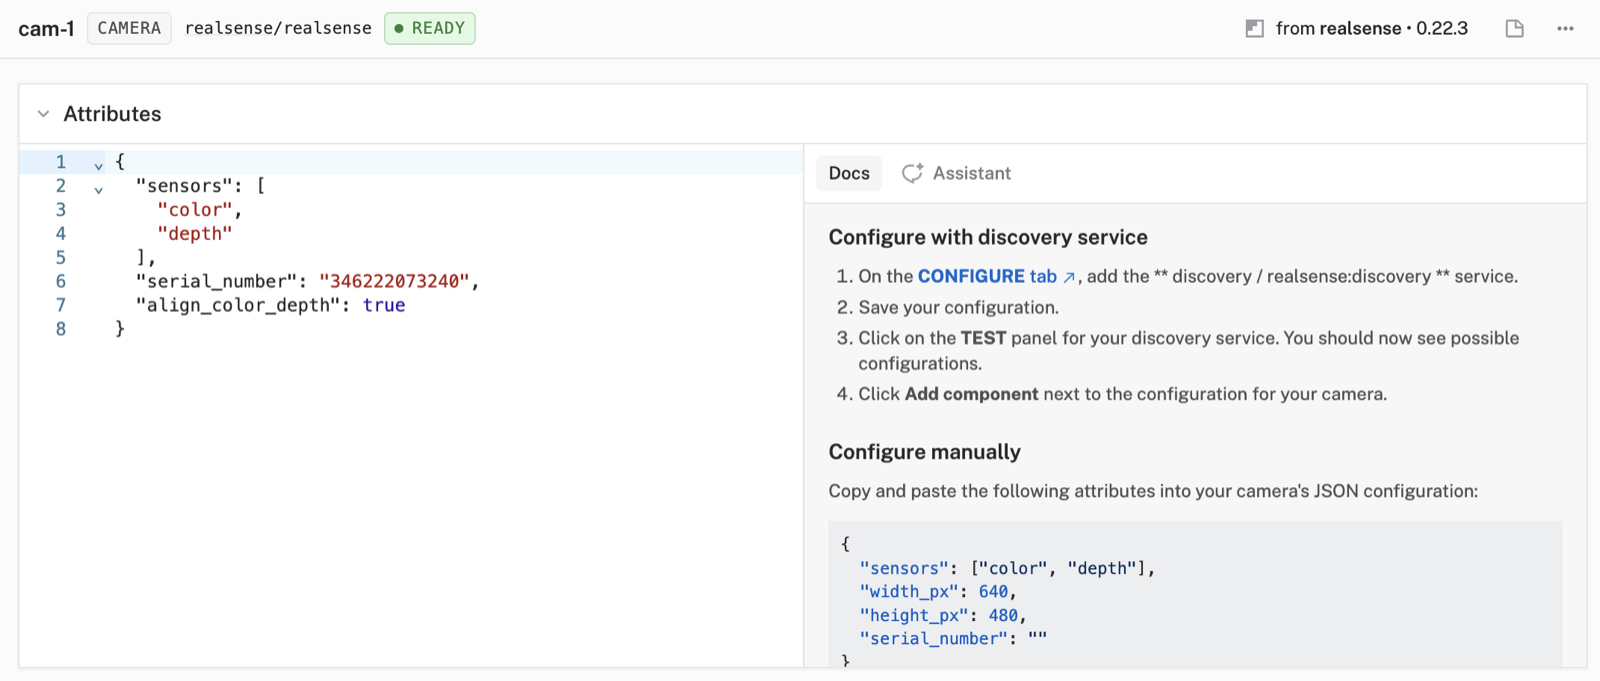
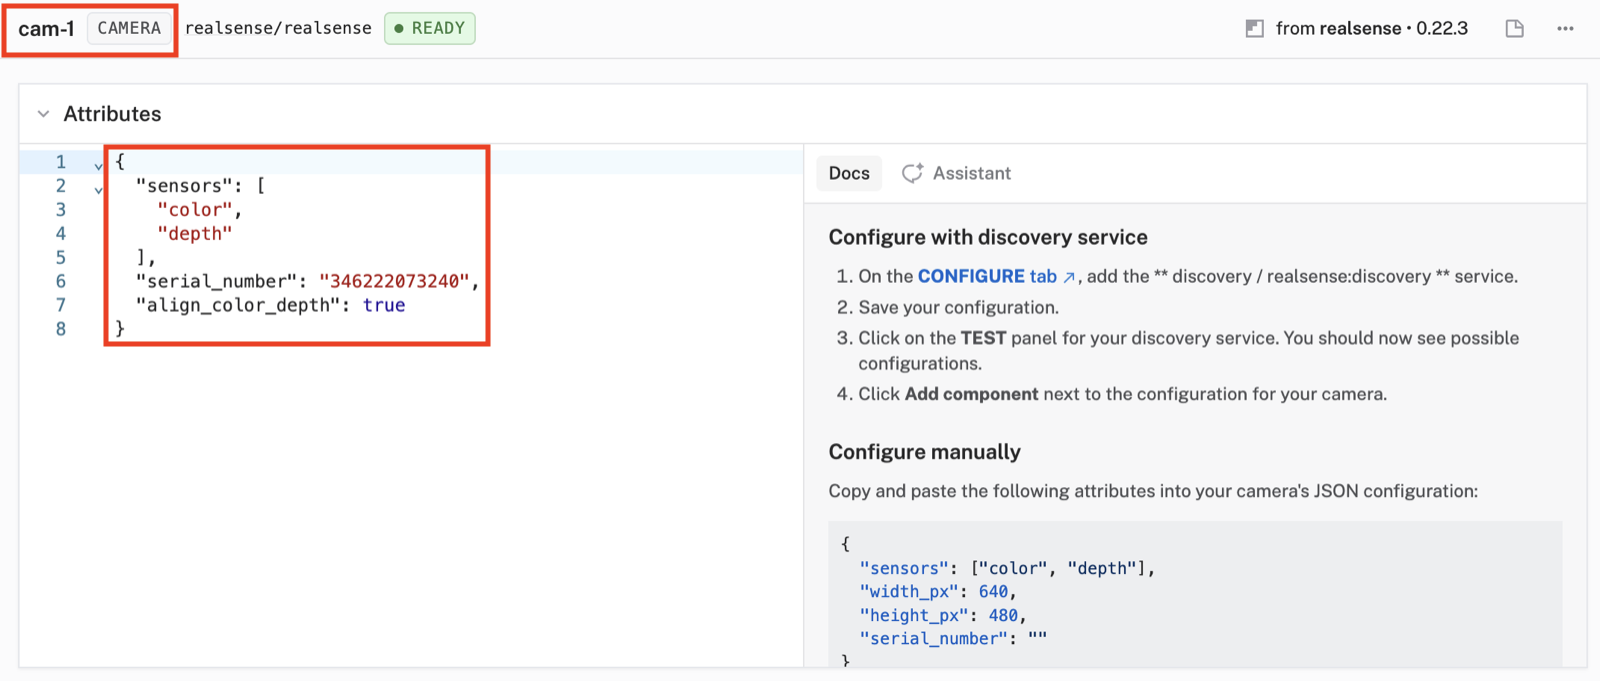
docs(tutorials): embed pick-and-place screenshots and apply review feedback
Add three screenshots (JSON-view toggle, live point cloud, vision-segment
object point cloud) and embed them in phases 1, 2, and 5. Optimize with
oxipng.

Apply unresolved PR #5104 review feedback:
- Fix RealSense model reference typo and trailing comma in the camera
  verification step (phase 2)
- Drop the redundant "replayed exactly on position 2" clause from the
  arm-movement caution (phase 3)
- Remove "rather than erroring" from the arm test checkpoint (phase 2)
- Trim the duplicative gripper test checkpoint (phase 2)
- Expand the "online machine" prerequisite to explain what online means
- Add red-box annotations to the arm controller-host IP label and the
  cam-1 name/attributes screenshots

Claude-Session: https://claude.ai/code/session_015cpMBzbccNsQnevSeQAEUZ

Changed region(s): [[0.0625, 0.185, 0.3125, 0.5242], [0.0, 0.0, 0.125, 0.0925]]

diff --git a/docs/tutorials/pick-and-place/02-configure-resources.md b/docs/tutorials/pick-and-place/02-configure-resources.md
@@ -144,7 +144,7 @@ Open the `cam-1` card and select **Frame**. Switch the editor to JSON and set:
 
 Parent `arm-1` mounts the camera on the wrist so it moves with the arm. The translation places the camera's optical center relative to the end effector, and the 270-degree rotation around z lines the camera's axes up with the arm's. Save the config.
 
-Check that your camera configuration matches the image below: Check the component name is cam-1, the module / model selected is realsense/realsesne and the frame values match. Note that the attributes may change their order, you only need to verify the values,
+Check that your camera configuration matches the image below: the component name is `cam-1`, the module / model selected is `realsense`/`realsense`, and the frame values match. Note that the attributes may change their order; you only need to verify the values.
 
 <!-- ASSET P0 configure-camera-frame (UI+): cam-1 Frame editor JSON, parent arm-1, translation -73,40,18 -->
 
@@ -170,6 +170,8 @@ Below the **GetImages** control, you can toggle **GetPointCloud** on and set the
 
 <!-- ASSET P1 control-camera-pointcloud (UI): CONTROL camera card, live point clouds -->
 
+{{<imgproc src="/tutorials/pick-and-place/control-camera-pointcloud.png" resize="1200x" declaredimensions=true alt="The GetPointCloud control showing a live point cloud of the blocks, with a hovered point's x, y, z coordinates and distance to origin.">}}
+
 {{< checkpoint >}}
 The camera card shows a live color stream from `cam-1`. Because you configured both the `color` and `depth` sensors, switch the **GetImages** stream rate to "Refresh every second" and the source to depth and confirm that stream updates too. If the card is blank, check the LOGS tab for a camera error before moving on.
 {{< /checkpoint >}}
@@ -187,7 +189,7 @@ The arm card shows the arm's current joint positions, and provides two different
 {{<imgproc src="/tutorials/pick-and-place/control-arm-card.png" resize="1200x" declaredimensions=true alt="The arm CONTROL card with joint sliders, Execute, and the MoveToPosition Current position button.">}}
 
 {{< checkpoint >}}
-Pressing **Execute** after setting a joint slider moves the physical arm, and pressing **Current position** under **MoveToPosition** fills the Pose Values rather than erroring. If nothing moves or you see an error message, confirm `arm-1` shows as online in the CONFIGURE tab and that the LOGS tab has no connection errors for it.
+Pressing **Execute** after setting a joint slider moves the physical arm, and pressing **Current position** under **MoveToPosition** fills the Pose Values. If nothing moves or you see an error message, confirm `arm-1` shows as online in the CONFIGURE tab and that the LOGS tab has no connection errors for it.
 {{< /checkpoint >}}
 
 ### Control the gripper
@@ -199,7 +201,7 @@ The gripper test card lets you open and close a gripper, check whether the gripp
 {{<imgproc src="/tutorials/pick-and-place/control-gripper-grab.jpeg" resize="1200x" declaredimensions=true alt="The two-finger gripper holding a block.">}}
 
 {{< checkpoint >}}
-With a block between the fingers, **Grab** closes the fingers and the gripper holds the block without dropping it. **Open** releases the block. This grab-and-release is the same action your Python code performs later in the workshop when it picks a block and drops it in a bin. If your gripper card also shows a holding status indicator, it now reads true while the block is held and false once the gripper is open and empty. If nothing moves, confirm `gripper-1` shows as online in the CONFIGURE tab and that the LOGS tab has no connection errors for it.
+With a block between the fingers, **Grab** closes the fingers and the gripper holds the block without dropping it. **Open** releases the block. If nothing moves, confirm `gripper-1` shows as online in the CONFIGURE tab and that the LOGS tab has no connection errors for it.
 {{< /checkpoint >}}
 
 ## The 3D scene tab

diff --git a/docs/tutorials/pick-and-place/01-platform-mental-model.md b/docs/tutorials/pick-and-place/01-platform-mental-model.md
@@ -69,6 +69,10 @@ This is why the workshop asks you to make changes in the app rather than by edit
 
 Open the **CONFIGURE** tab now and find the JSON view toggle near the top of the panel. Switching to JSON shows you the exact document that `viam-server` receives. Your machine has no resources configured yet, so the document is nearly empty; it fills in as you add resources.
 
+<!-- ASSET P1 configure-json-toggle (UI+): CONFIGURE tab JSON view toggle highlighted, near-empty {} config document -->
+
+{{<imgproc src="/tutorials/pick-and-place/configure-json-toggle.png" resize="1200x" declaredimensions=true alt="The CONFIGURE tab with the JSON view toggle highlighted, showing a near-empty config document for the pick-and-place-main machine.">}}
+
 ## Resources: configure your first one
 
 Everything a Viam machine does, hardware and software alike, is modeled as a **resource**. Each resource has a name you choose (like `arm-1`), an API that describes what kind of thing it is (an arm, a camera, a vision service), and a model that identifies the specific implementation. The fastest way to understand a resource is to configure one, so add the arm now.

diff --git a/docs/tutorials/pick-and-place/05-perception-guided-picking.md b/docs/tutorials/pick-and-place/05-perception-guided-picking.md
@@ -52,6 +52,10 @@ Save the config and open the **CONTROL** tab. Find the `vision-segment` test car
 
 {{<imgproc src="/tutorials/pick-and-place/control-vision-detections.png" resize="1200x" declaredimensions=true alt="The shape-detector vision card showing a detected block with a bounding box and label.">}}
 
+<!-- ASSET P1 control-vision-segment-object (UI): vision-segment Object point clouds view, one segmented object with dimensions and position -->
+
+{{<imgproc src="/tutorials/pick-and-place/control-vision-segment-object.png" resize="1200x" declaredimensions=true alt="A vision-segment object point cloud labeled square-red (box) with its estimated dimensions and 3D position in the camera frame.">}}
+
 {{< checkpoint >}}
 The `vision-segment` test card returns at least one object when a block is in view. If it returns nothing, confirm a block actually sits in the camera's field of view, then check the `shape-detector` card on its own: if that also returns nothing, the problem is upstream in shape detection.
 {{< /checkpoint >}}

diff --git a/docs/tutorials/pick-and-place/03-static-positions.md b/docs/tutorials/pick-and-place/03-static-positions.md
@@ -81,7 +81,7 @@ Set one attribute:
 This attribute is also a dependency, the same way `gripper-1` depends on `arm-1`: the switch cannot save or recall a pose until the arm it points at is running.
 
 {{< alert title="The arm will move" color="caution" >}}
-The steps in this phase move the physical arm, both when you jog it into position and when you set a switch to "go to" (position 2) to replay a saved pose. Keep the workspace clear and the e-stop within reach. Verify each pose individually before you run the full sequence at the end of the phase, since a pose saved in a bad spot is replayed exactly on position 2.
+The steps in this phase move the physical arm, both when you jog it into position and when you set a switch to "go to" (position 2) to replay a saved pose. Keep the workspace clear and the e-stop within reach. Verify each pose individually before you run the full sequence at the end of the phase.
 {{< /alert >}}
 
 With the `home-pose` switch added, save and verify it. Home is your observation pose, so jog the arm to a spot above the workspace where the wrist camera has a clear, unobstructed view of the blocks; Phase 5 detects from exactly this pose.

diff --git a/docs/tutorials/pick-and-place/_index.md b/docs/tutorials/pick-and-place/_index.md
@@ -67,7 +67,7 @@ This is a self-serve workshop, so confirm each of the following before you start
 - **Python 3.10 or newer.** Install it with [uv](https://docs.astral.sh/uv/getting-started/installation/) (recommended) or from [python.org](https://www.python.org/downloads/).
 - **The Viam Python SDK.** The companion `scripts/` project already declares `viam-sdk`, so `uv run` installs it for you in Phase 4. See the [Python SDK docs](https://python.viam.dev/) for reference. Pip works too if you prefer it.
 - **A working terminal** on the machine you will run the Phase 4 and Phase 5 scripts from, typically your personal computer rather than the robot's Meerkat.
-- **A Viam account with an online machine.** Log in at [app.viam.com](https://app.viam.com), [create a machine](https://docs.viam.com/set-up-a-machine/first-machine/), and confirm the green **Live** indicator before you begin.
+- **A Viam account with an online machine.** Log in at [app.viam.com](https://app.viam.com), [create a machine](https://docs.viam.com/set-up-a-machine/first-machine/), and confirm the green **Live** indicator before you begin. "Online" means `viam-server` is running on the machine and reachable from the Viam app, so the app can deliver config and you can reach it from your own computer; the green **Live** indicator is how you confirm that connection.
 
 ### Validate your environment
 